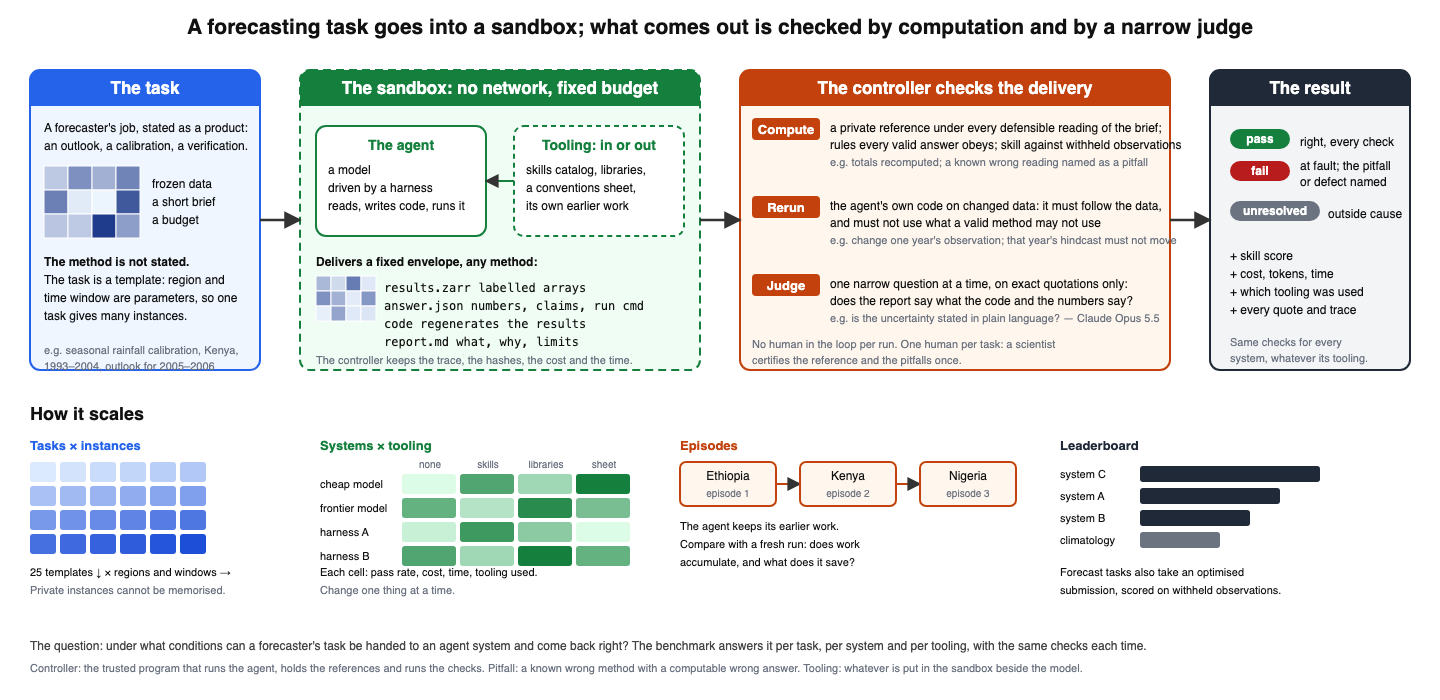
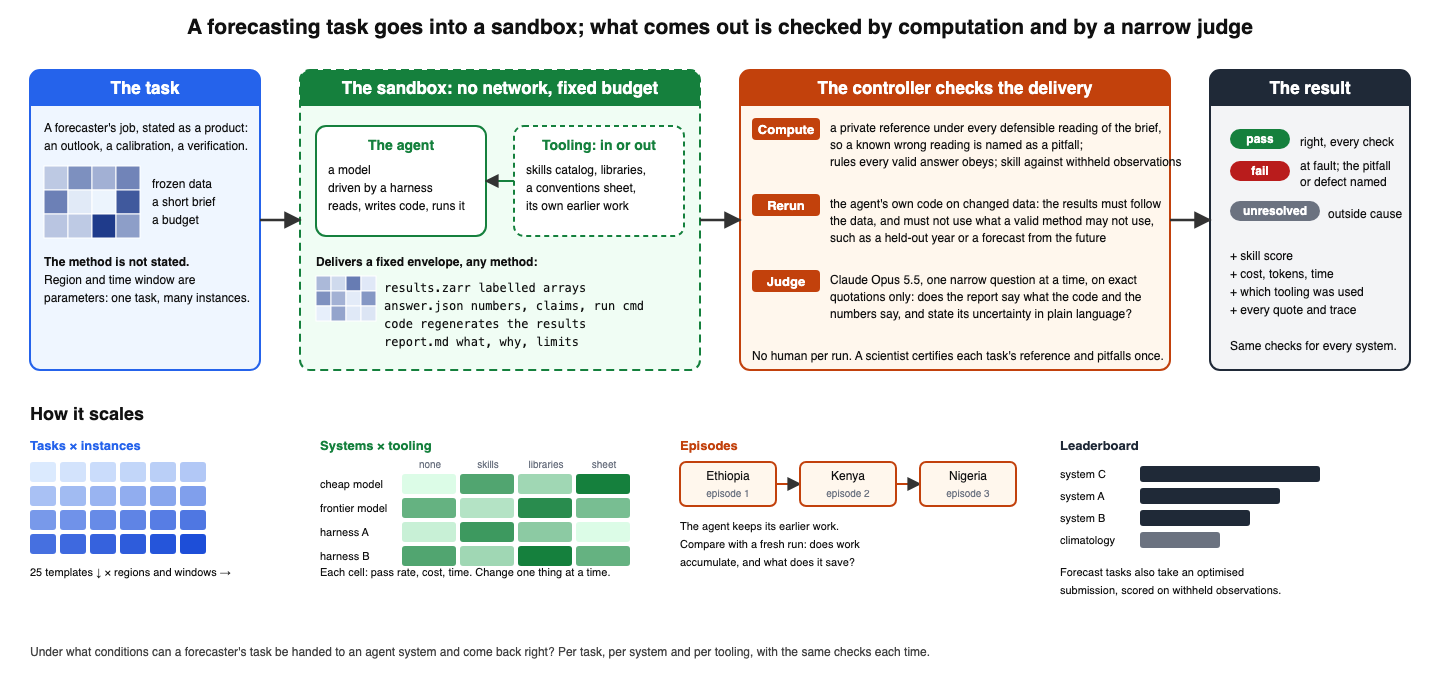
Overview figure: drop the grey example text, fold it into the main lines

diff --git a/docs/figures/draw_overview.py b/docs/figures/draw_overview.py
@@ -43,8 +43,7 @@ s.append(text(x + 14, y + 80, "an outlook, a calibration, a verification.", 12))
 s.append(minimap(x + 14, y + 96, 96, 3))
 s.append(text(x + 122, y + 118, "frozen data", 12)); s.append(text(x + 122, y + 136, "a short brief", 12)); s.append(text(x + 122, y + 154, "a budget", 12))
 s.append(text(x + 14, y + 196, "The method is not stated.", 12, "#111", "bold"))
-s.append(text(x + 14, y + 214, "The task is a template: region and", 12)); s.append(text(x + 14, y + 232, "time window are parameters, so one", 12)); s.append(text(x + 14, y + 250, "task gives many instances.", 12))
-s.append(text(x + 14, y + 284, "e.g. seasonal rainfall calibration, Kenya,", 11, GREY)); s.append(text(x + 14, y + 300, "1993–2004, outlook for 2005–2006", 11, GREY))
+s.append(text(x + 14, y + 214, "Region and time window are", 12)); s.append(text(x + 14, y + 232, "parameters: one task, many instances.", 12))
 
 # ---- 2. sandbox -------------------------------------------------------------------------------
 x, y, w, h = 300, 70, 400, 300
@@ -59,19 +58,18 @@ s.append(minimap(x + 16, y + 206, 60, 7)); s.append(text(x + 84, y + 222, "resul
 s.append(text(x + 84, y + 240, "answer.json    numbers, claims, run cmd", 12, family="Menlo, monospace"))
 s.append(text(x + 84, y + 258, "code           regenerates the results", 12, family="Menlo, monospace"))
 s.append(text(x + 84, y + 276, "report.md      what, why, limits", 12, family="Menlo, monospace"))
-s.append(text(x + 16, y + 294, "The controller keeps the trace, the hashes, the cost and the time.", 11, GREY))
 
 # ---- 3. controller -----------------------------------------------------------------------------
 x, y, w, h = 740, 70, 430, 300
 s.append(box(x, y, w, h, ORANGE, "#fff7ed")); s.append(head(x, y, w, ORANGE, "The controller checks the delivery"))
-rows = [("Compute", "a private reference under every defensible reading of the brief;", "rules every valid answer obeys; skill against withheld observations", "e.g. totals recomputed; a known wrong reading named as a pitfall"),
-        ("Rerun", "the agent's own code on changed data: it must follow the data,", "and must not use what a valid method may not use", "e.g. change one year's observation; that year's hindcast must not move"),
-        ("Judge", "one narrow question at a time, on exact quotations only:", "does the report say what the code and the numbers say?", "e.g. is the uncertainty stated in plain language? — Claude Opus 5.5")]
+rows = [("Compute", "a private reference under every defensible reading of the brief,", "so a known wrong reading is named as a pitfall;", "rules every valid answer obeys; skill against withheld observations"),
+        ("Rerun", "the agent's own code on changed data: the results must follow", "the data, and must not use what a valid method may not use,", "such as a held-out year or a forecast from the future"),
+        ("Judge", "Claude Opus 5.5, one narrow question at a time, on exact", "quotations only: does the report say what the code and the", "numbers say, and state its uncertainty in plain language?")]
 for k, (name, a, b, c) in enumerate(rows):
-    yy = y + 62 + k * 78
+    yy = y + 62 + k * 76
     s.append(f'<rect x="{x + 12}" y="{yy - 14}" width="68" height="22" rx="4" fill="{ORANGE}"/>'); s.append(text(x + 46, yy + 2, name, 13, "#fff", "bold", "middle"))
-    s.append(text(x + 90, yy, a, 12)); s.append(text(x + 90, yy + 17, b, 12)); s.append(text(x + 90, yy + 34, c, 11, GREY))
-s.append(text(x + 12, y + 278, "No human in the loop per run. One human per task: a scientist", 11, GREY)); s.append(text(x + 12, y + 294, "certifies the reference and the pitfalls once.", 11, GREY))
+    s.append(text(x + 90, yy, a, 12)); s.append(text(x + 90, yy + 17, b, 12)); s.append(text(x + 90, yy + 34, c, 12))
+s.append(text(x + 12, y + 290, "No human per run. A scientist certifies each task's reference and pitfalls once.", 12))
 
 # ---- 4. result ---------------------------------------------------------------------------------
 x, y, w, h = 1210, 70, 200, 300
@@ -80,7 +78,7 @@ s.append(pill(x + 20, y + 72, 60, "pass", GREEN)); s.append(text(x + 90, y + 76,
 s.append(pill(x + 20, y + 104, 60, "fail", RED)); s.append(text(x + 90, y + 100, "at fault; the pitfall", 12)); s.append(text(x + 90, y + 116, "or defect named", 12))
 s.append(pill(x + 20, y + 144, 90, "unresolved", GREY)); s.append(text(x + 118, y + 148, "outside cause", 12))
 s.append(text(x + 20, y + 190, "+ skill score", 12)); s.append(text(x + 20, y + 208, "+ cost, tokens, time", 12)); s.append(text(x + 20, y + 226, "+ which tooling was used", 12)); s.append(text(x + 20, y + 244, "+ every quote and trace", 12))
-s.append(text(x + 20, y + 276, "Same checks for every", 11, GREY)); s.append(text(x + 20, y + 292, "system, whatever its tooling.", 11, GREY))
+s.append(text(x + 20, y + 280, "Same checks for every system.", 12))
 
 # arrows between panels
 s.append(arrow(260, 220, 300, 220)); s.append(arrow(700, 220, 740, 220)); s.append(arrow(1170, 220, 1210, 220))
@@ -94,7 +92,7 @@ s.append(text(x, y + 50, "Tasks × instances", 13, BLUE, "bold"))
 for i in range(4):
     for j in range(6):
         s.append(f'<rect x="{x + j * 30}" y="{y + 62 + i * 24}" width="26" height="20" rx="3" fill="{hexmix("#dbeafe", "#1d4ed8", (i * 6 + j) / 23)}"/>')
-s.append(text(x, y + 176, "25 templates ↓  ×  regions and windows →", 11)); s.append(text(x, y + 194, "Private instances cannot be memorised.", 11, GREY))
+s.append(text(x, y + 176, "25 templates ↓  ×  regions and windows →", 11))
 # b. systems × tooling
 x = 320
 s.append(text(x, y + 50, "Systems × tooling", 13, GREEN, "bold"))
@@ -104,7 +102,7 @@ for i, r in enumerate(["cheap model", "frontier model", "harness A", "harness B"
     s.append(text(x, y + 88 + i * 24, r, 11))
     for j in range(4):
         s.append(f'<rect x="{x + 82 + j * 58}" y="{y + 74 + i * 24}" width="54" height="20" rx="3" fill="{hexmix("#dcfce7", "#15803d", ((i * 4 + j) * 7 % 11) / 10)}"/>')
-s.append(text(x, y + 176, "Each cell: pass rate, cost, time, tooling used.", 11)); s.append(text(x, y + 194, "Change one thing at a time.", 11, GREY))
+s.append(text(x, y + 176, "Each cell: pass rate, cost, time. Change one thing at a time.", 11))
 # c. episodes
 x = 680
 s.append(text(x, y + 50, "Episodes", 13, ORANGE, "bold"))
@@ -120,8 +118,7 @@ for i, (name, v) in enumerate([("system C", 0.9), ("system A", 0.7), ("system B"
     s.append(text(x, y + 78 + i * 22, name, 11)); s.append(f'<rect x="{x + 80}" y="{y + 66 + i * 22}" width="{v * 200:.0f}" height="16" rx="3" fill="{SLATE if name != "climatology" else GREY}"/>')
 s.append(text(x, y + 176, "Forecast tasks also take an optimised", 11)); s.append(text(x, y + 194, "submission, scored on withheld observations.", 11))
 
-s.append(text(30, 650, "The question: under what conditions can a forecaster's task be handed to an agent system and come back right? The benchmark answers it per task, per system and per tooling, with the same checks each time.", 12, "#444"))
-s.append(text(30, 672, "Controller: the trusted program that runs the agent, holds the references and runs the checks.  Pitfall: a known wrong method with a computable wrong answer.  Tooling: whatever is put in the sandbox beside the model.", 11, GREY))
+s.append(text(30, 656, "Under what conditions can a forecaster's task be handed to an agent system and come back right? Per task, per system and per tooling, with the same checks each time.", 12, "#444"))
 s.append("</svg>")
 Path(__file__).with_name("overview.svg").write_text("\n".join(s))
 print("ok")
